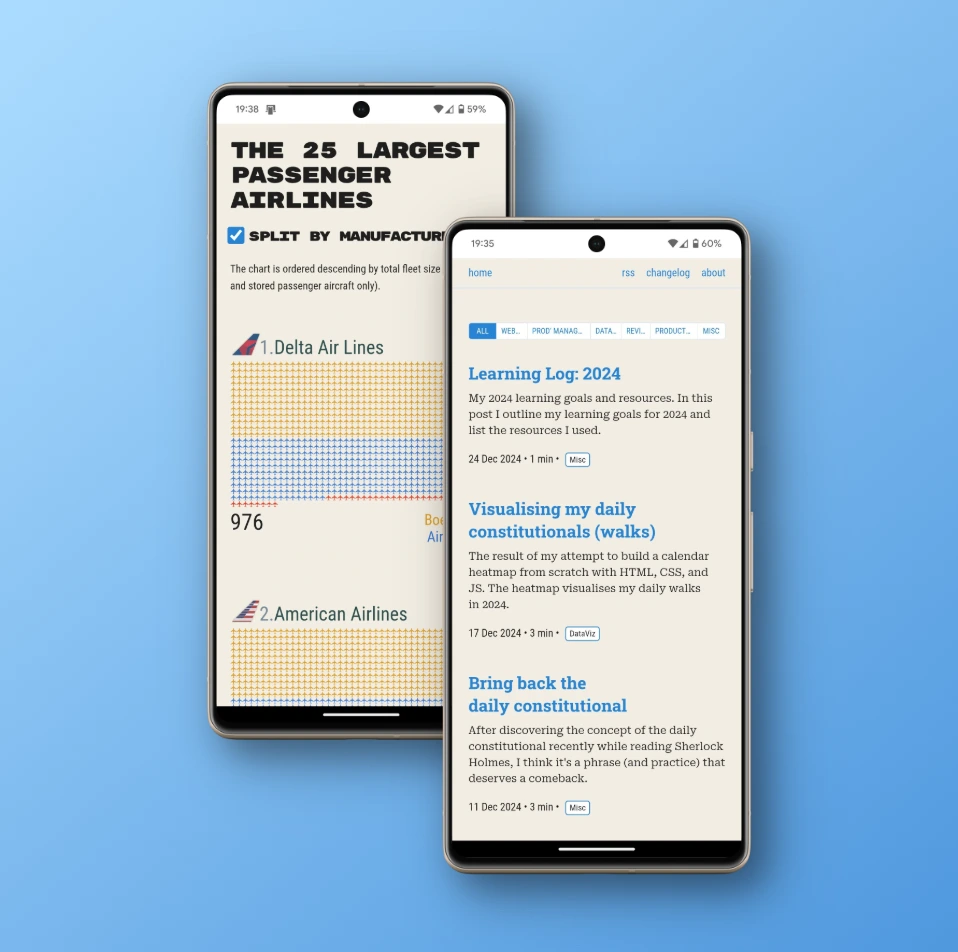
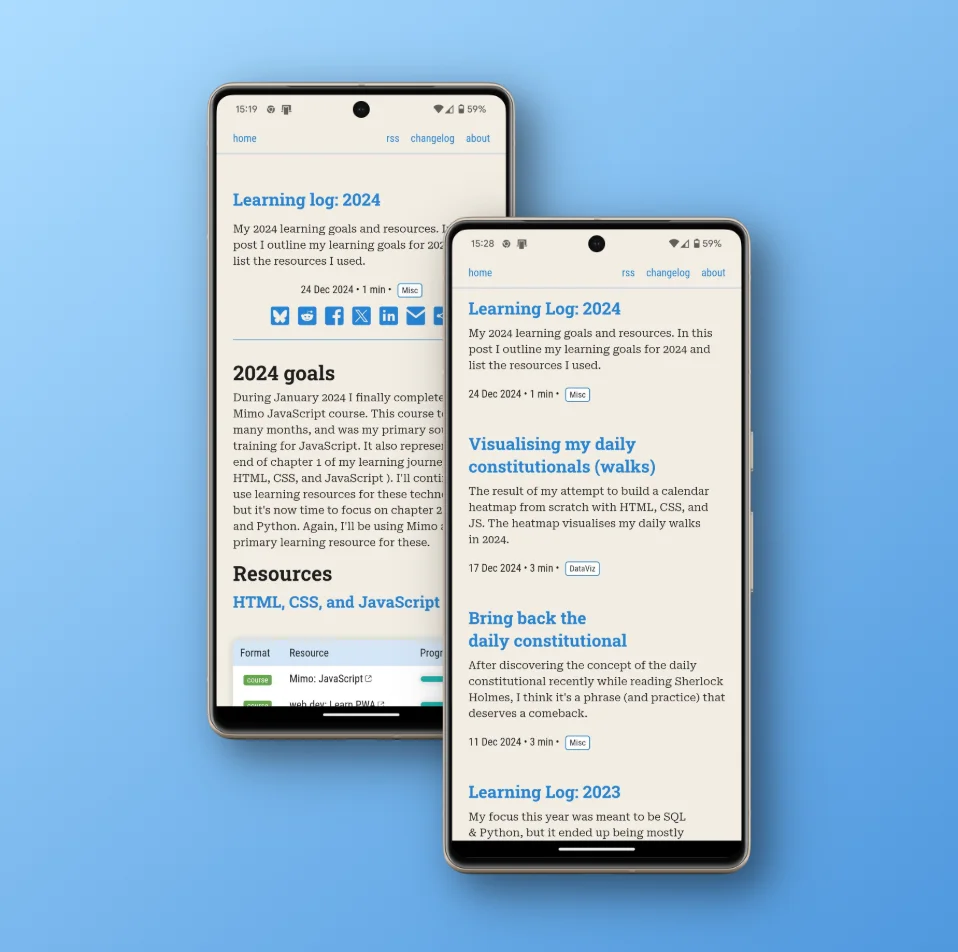
Enhance product management documentation and update CSS for improved layout (removed filters on mobile)

Changed region(s): [[0.2119, 0.0914, 0.7871, 0.8834]]

diff --git a/posts/top-25-pax-airlines.html b/posts/top-25-pax-airlines.html
@@ -59,7 +59,7 @@
     <link rel="manifest" href="/manifest.json">
 
     <!--stylesheet and RSS-->
-    <link rel="stylesheet" type="text/css" href="/styles/main99.css">
+    <link rel="stylesheet" type="text/css" href="/styles/main100.css">
     <link rel="stylesheet" type="text/css" href="/styles/top-25-pax-airlines-1.css">
     <link rel="alternate" type="application/rss+xml" title="RSS Feed for OnlyRSS.org" href="/feed.xml">
     <link rel="stylesheet" type="text/css" href="/styles/prism.css">

diff --git a/posts/visualising-my-daily-constitutionals.html b/posts/visualising-my-daily-constitutionals.html
@@ -59,7 +59,7 @@
     <link rel="manifest" href="/manifest.json">
 
     <!--stylesheet and RSS-->
-    <link rel="stylesheet" type="text/css" href="/styles/main99.css">
+    <link rel="stylesheet" type="text/css" href="/styles/main100.css">
     <link rel="stylesheet" type="text/css" href="/styles/visualising-my-daily-constitutionals.css">
     <link rel="alternate" type="application/rss+xml" title="RSS Feed for OnlyRSS.org" href="/feed.xml">
     

diff --git a/posts/airbus-vs-boeing-charts.html b/posts/airbus-vs-boeing-charts.html
@@ -58,7 +58,7 @@
     <link rel="manifest" href="/manifest.json">
 
     <!--stylesheet and RSS-->
-    <link rel="stylesheet" type="text/css" href="/styles/main99.css">
+    <link rel="stylesheet" type="text/css" href="/styles/main100.css">
     <link rel="stylesheet" type="text/css" href="/styles/airbus-vs-boeing-charts.css">
     <link rel="alternate" type="application/rss+xml" title="RSS Feed for OnlyRSS.org" href="/feed.xml">
     

diff --git a/posts/top-9-aircraft-families.html b/posts/top-9-aircraft-families.html
@@ -58,7 +58,7 @@
     <link rel="manifest" href="/manifest.json">
 
     <!--stylesheet and RSS-->
-    <link rel="stylesheet" type="text/css" href="/styles/main99.css">
+    <link rel="stylesheet" type="text/css" href="/styles/main100.css">
     <link rel="stylesheet" type="text/css" href="/styles/top-9-aircraft-families.css">
     <link rel="alternate" type="application/rss+xml" title="RSS Feed for OnlyRSS.org" href="/feed.xml">
     

diff --git a/posts/the-air-india-order.html b/posts/the-air-india-order.html
@@ -58,7 +58,7 @@
     <link rel="manifest" href="/manifest.json">
 
     <!--stylesheet and RSS-->
-    <link rel="stylesheet" type="text/css" href="/styles/main99.css">
+    <link rel="stylesheet" type="text/css" href="/styles/main100.css">
     <link rel="stylesheet" type="text/css" href="/styles/the-air-india-order.css">
     <link rel="alternate" type="application/rss+xml" title="RSS Feed for OnlyRSS.org" href="/feed.xml">
     

diff --git a/demo/bar-charts.html b/demo/bar-charts.html
@@ -28,7 +28,7 @@
     <link rel="manifest" href="/manifest.json">
 
     <!--stylesheet and RSS-->
-    <link rel="stylesheet" type="text/css" href="/styles/main99.css">
+    <link rel="stylesheet" type="text/css" href="/styles/main100.css">
     <link rel="stylesheet" type="text/css" href="/styles/bar-charts.css">
     <link rel="alternate" type="application/rss+xml" title="RSS Feed for OnlyRSS.org" href="/feed.xml">
     

diff --git a/posts/table-with-progress-indicator.html b/posts/table-with-progress-indicator.html
@@ -58,7 +58,7 @@
     <link rel="manifest" href="/manifest.json">
 
     <!--stylesheet and RSS-->
-    <link rel="stylesheet" type="text/css" href="/styles/main99.css">
+    <link rel="stylesheet" type="text/css" href="/styles/main100.css">
     <link rel="alternate" type="application/rss+xml" title="RSS Feed for OnlyRSS.org" href="/feed.xml">
     <link rel="stylesheet" type="text/css" href="/styles/prism.css">
     

diff --git a/posts/view-transitions.html b/posts/view-transitions.html
@@ -58,7 +58,7 @@
     <link rel="manifest" href="/manifest.json">
 
     <!--stylesheet and RSS-->
-    <link rel="stylesheet" type="text/css" href="/styles/main99.css">
+    <link rel="stylesheet" type="text/css" href="/styles/main100.css">
     <link rel="alternate" type="application/rss+xml" title="RSS Feed for OnlyRSS.org" href="/feed.xml">
     <link rel="stylesheet" type="text/css" href="/styles/prism.css">
     

diff --git a/pages/changelog.html b/pages/changelog.html
@@ -29,7 +29,7 @@
     <link rel="manifest" href="/manifest.json">
 
     <!--stylesheet and RSS-->
-    <link rel="stylesheet" type="text/css" href="/styles/main99.css">
+    <link rel="stylesheet" type="text/css" href="/styles/main100.css">
     <link rel="alternate" type="application/rss+xml" title="RSS Feed for OnlyRSS.org" href="/feed.xml">
     <link rel="stylesheet" type="text/css" href="/styles/prism.css">
 

diff --git a/posts/adding-screenshots-to-your-pwa-install.html b/posts/adding-screenshots-to-your-pwa-install.html
@@ -58,7 +58,7 @@
     <link rel="manifest" href="/manifest.json">
 
     <!--stylesheet and RSS-->
-    <link rel="stylesheet" type="text/css" href="/styles/main99.css">
+    <link rel="stylesheet" type="text/css" href="/styles/main100.css">
     <link rel="alternate" type="application/rss+xml" title="RSS Feed for OnlyRSS.org" href="/feed.xml">
     <link rel="stylesheet" type="text/css" href="/styles/prism.css">
 

diff --git a/posts/auto-numbering-of-figures-with-CSS-counters.html b/posts/auto-numbering-of-figures-with-CSS-counters.html
@@ -58,7 +58,7 @@
     <link rel="manifest" href="/manifest.json">
 
     <!--stylesheet and RSS-->
-    <link rel="stylesheet" type="text/css" href="/styles/main99.css">
+    <link rel="stylesheet" type="text/css" href="/styles/main100.css">
     <link rel="alternate" type="application/rss+xml" title="RSS Feed for OnlyRSS.org" href="/feed.xml">
     <link rel="stylesheet" type="text/css" href="/styles/prism.css">
 

diff --git a/posts/css-balance.html b/posts/css-balance.html
@@ -58,7 +58,7 @@
     <link rel="manifest" href="/manifest.json">
 
     <!--stylesheet and RSS-->
-    <link rel="stylesheet" type="text/css" href="/styles/main99.css">
+    <link rel="stylesheet" type="text/css" href="/styles/main100.css">
     <link rel="alternate" type="application/rss+xml" title="RSS Feed for OnlyRSS.org" href="/feed.xml">
     <link rel="stylesheet" type="text/css" href="/styles/prism.css">
 
